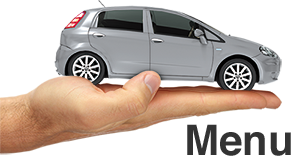
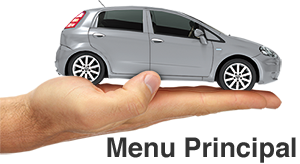
correções na caixa

Changed region(s): [[0.33, 0.7317, 0.99, 1.0]]

diff --git a/superandoobjecoes.html b/superandoobjecoes.html
@@ -74,14 +74,14 @@
             
 
                 <div class="span8 offset2">
-                    <p><a class="btn btn-large btn-warning btn-block" href="objecao1.html"><i class="icon-exclamation-sign icon-white"></i> Objeção 1: Vou fazer outras cotações!</a></p>
-                    <p><a class="btn btn-large btn-warning btn-block" href="objecao2.html"><i class="icon-exclamation-sign icon-white"></i> Objeção 2: Não tenho interesse!</a></p>
-                    <p><a class="btn btn-large btn-warning btn-block" href="objecao3.html"><i class="icon-exclamation-sign icon-white"></i> Objeção 3: Este seguro é muito caro! Estou sem dinheiro!</a></p>
-                    <p><a class="btn btn-large btn-warning btn-block" href="objecao4.html"><i class="icon-exclamation-sign icon-white"></i> Objeção 4: Vou pensar e qualquer coisa, te ligo!</a></p>
-                    <p><a class="btn btn-large btn-warning btn-block" href="objecao5.html"><i class="icon-exclamation-sign icon-white"></i> Objeção 5: Preciso falar com minha esposa/marido!</a></p>
-                    <p><a class="btn btn-large btn-warning btn-block" href="objecao6.html"><i class="icon-exclamation-sign icon-white"></i> Objeção 6: Eu já tenho corretor e estou satisfeito com ele!</a></p>
-                    <p><a class="btn btn-large btn-warning btn-block" href="objecao7.html"><i class="icon-exclamation-sign icon-white"></i> Objeção 7: Já tenho seguro e não quero mudar!</a></p>
-                    <p><a class="btn btn-large btn-warning btn-block" href="objecao8.html"><i class="icon-exclamation-sign icon-white"></i> Objeção 8: Não acredito em seguro</a></p>
+                    <p><a class="btn btn-large btn-warning btn-block" href="objecao1.html"><i class="icon-film icon-white"></i> Objeção 1: Vou fazer outras cotações!</a></p>
+                    <p><a class="btn btn-large btn-warning btn-block" href="objecao2.html"><i class="icon-film icon-white"></i> Objeção 2: Não tenho interesse!</a></p>
+                    <p><a class="btn btn-large btn-warning btn-block" href="objecao3.html"><i class="icon-film icon-white"></i> Objeção 3: Este seguro é muito caro! Estou sem dinheiro!</a></p>
+                    <p><a class="btn btn-large btn-warning btn-block" href="objecao4.html"><i class="icon-film icon-white"></i> Objeção 4: Vou pensar e qualquer coisa, te ligo!</a></p>
+                    <p><a class="btn btn-large btn-warning btn-block" href="objecao5.html"><i class="icon-film icon-white"></i> Objeção 5: Preciso falar com minha esposa/marido!</a></p>
+                    <p><a class="btn btn-large btn-warning btn-block" href="objecao6.html"><i class="icon-film icon-white"></i> Objeção 6: Eu já tenho corretor e estou satisfeito com ele!</a></p>
+                    <p><a class="btn btn-large btn-warning btn-block" href="objecao7.html"><i class="icon-film icon-white"></i> Objeção 7: Já tenho seguro e não quero mudar!</a></p>
+                    <p><a class="btn btn-large btn-warning btn-block" href="objecao8.html"><i class="icon-film icon-white"></i> Objeção 8: Não acredito em seguro</a></p>
                  </div>
             </div>
 

diff --git a/argumentacaodevendas.html b/argumentacaodevendas.html
@@ -66,23 +66,23 @@
 
             <div class="row-fluid">
 
-                <p>O Seguro Tranquilo Auto é um dos mais completos do mercado e sua comercialização alcança sempre resultados bastante positivos. O objetivo deste material é subsidiar os Indicadores de Negócios com informações e conhecimentos que facilitem sua atuação e, consequentemente, a realização de mais negócios. </p>
-                <p>Além do filme de apresentação do material, que pode ser visualizado abaixo, é possível assistir a duas vídeo aulas, uma sobre produto e outra sobre argumentação para vendas. Três materiais complementares também são disponibilizados: um link para o Manual do Produto, com dados mais detalhados e atualizados sobre o Seguro Tranquilo Auto; um link para o Tutorial do Sistema de Vendas e uma Apresentação do Produto em ppt para seu melhor entendimento.</p>
+                <p>A vídeo aula abaixo de Argumentação de Vendas apresenta uma série de argumentos para que os Indicadores de Negócios tenham mais sucesso em suas vendas auxiliando os clientes na tomada da decisão da adesão ao seguro.</p>
+                <p>A partir de um conjunto de cinco objeções, são apresentadas técnicas de persuasões eficazes que, além de orientarem os Indicadores de Negócios, também os fazem refletirem sobre sua ação de convencimento e negociação.</p>
 
                 <div class="well">
                     <div data-swf="lib/flowplayer.swf"
                       class="flowplayer no-toggle play-button" data-embed="false" data-ratio="0.5619">
                       <video preload="auto" controls="controls" poster="img/capa_argumentacao_vendas.jpg">
-                        <source src="video/video1_final_480p.mp4" type="video/mp4" />
-                        <source src="video/video1_final_480p.theora.ogv" type="video/ogg" />
-                        <source src="video/video1_final_480p.mp4" type="video/flash" />
+                        <source src="video/video3_final_480p.mp4" type="video/mp4" />
+                        <source src="video/video3_final_480p.theora.ogv" type="video/ogg" />
+                        <source src="video/video3_final_480p.mp4" type="video/flash" />
                       </video>
                    </div>
                 </div>
 
             <div class="row">
                     <div class="span4 offset8">
-                        <p><a class="btn btn-large btn-warning btn-block" href="menu.html"><i class="icon-arrow-left icon-white"></i> Voltar ao Menu</a></p>
+                        <p><a class="btn btn-large btn-warning btn-block" href="menu.html"><i class="icon-arrow-left icon-white"></i> Voltar ao Menu Principal</a></p>
                     </div>
                 </div>
 

diff --git a/introducao.html b/introducao.html
@@ -67,7 +67,7 @@
             <div class="row-fluid">
 
                 <p>O Seguro Tranquilo Auto é um dos mais completos do mercado e sua comercialização alcança sempre resultados bastante positivos. O objetivo deste material é subsidiar os Indicadores de Negócios com informações e conhecimentos que facilitem sua atuação e, consequentemente, a realização de mais negócios. </p>
-                <p>Além do filme de apresentação do material, que pode ser visualizado abaixo, é possível assistir a duas vídeo aulas, uma sobre produto e outra sobre argumentação para vendas. Três materiais complementares também são disponibilizados: um link para o Manual do Produto, com dados mais detalhados e atualizados sobre o Seguro Tranquilo Auto; um link para o Tutorial do Sistema de Vendas e uma Apresentação do Produto em ppt para seu melhor entendimento.</p>
+                <p>Além do filme de apresentação do material, que pode ser visualizado abaixo, é possível assistir a mais três vídeo aulas, sobre Produto, Argumentação de Vendas e Superando Objeções. Três materiais complementares também são disponibilizados: um link para o Manual do Produto, com dados mais detalhados e atualizados sobre o Seguro Tranquilo Auto; um link para o Tutorial do Sistema de Vendas e uma Apresentação do Produto em ppt para seu melhor entendimento.</p>
 
                 <div class="well">
                     <div data-swf="lib/flowplayer.swf"

diff --git a/menu.html b/menu.html
@@ -114,8 +114,8 @@
 
         <!-- Button to trigger modal -->
         <div class="row">
-            <div class="span1 offset11">  
-            <a href="#myModal" role="button" class="btn-link creditos" data-toggle="modal"> Créditos</a>
+            <div class="pull-right">  
+            <a href="#myModal" role="button" class="btn btn-info" data-toggle="modal"> Créditos</a>
             </div>
         
             <!-- Modal -->
@@ -130,7 +130,7 @@
                 <h4>Projeto Gráfico e desenvolvimento lógico:</h4>
                 <p><a href="http://www.designup.pro.br/pro/osmala" target="_blank" alt="Waldemar Osmala"> Waldemar Osmala</a></p>
                 <h4>Coordenação Pedagógica</h4>
-                <p>Dorti Solange F. de Albuquerque</p>
+                <p>Dorti Solange F. de Albuquerque - CAIXA SEGUROS</p>
 
                 <h4>Apresentação</h4>
                 <p>André Santos</p>

diff --git a/alerta_ios.html b/alerta_ios.html
@@ -74,7 +74,7 @@
 
             <div class="row">
                     <div class="span4 offset8">
-                        <p><a class="btn btn-large btn-warning btn-block" href="menu.html"><i class="icon-arrow-left icon-white"></i> Voltar ao Menu</a></p>
+                        <p><a class="btn btn-large btn-warning btn-block" href="menu.html"><i class="icon-arrow-left icon-white"></i> Voltar ao Menu Principal</a></p>
                         <p><a class="btn btn-large btn-warning btn-block" href="auto/Seguro_Auto/simulacao/flash/index.htm"><i class="icon-play icon-white"></i> Prosseguir</a></p>
 
                     </div>

diff --git a/produto.html b/produto.html
@@ -81,7 +81,7 @@
 
             <div class="row">
                     <div class="span4 offset8">
-                        <p><a class="btn btn-large btn-warning btn-block" href="menu.html"><i class="icon-arrow-left icon-white"></i> Voltar ao Menu</a></p>
+                        <p><a class="btn btn-large btn-warning btn-block" href="menu.html"><i class="icon-arrow-left icon-white"></i> Voltar ao Menu Principal</a></p>
                     </div>
                 </div>
 
